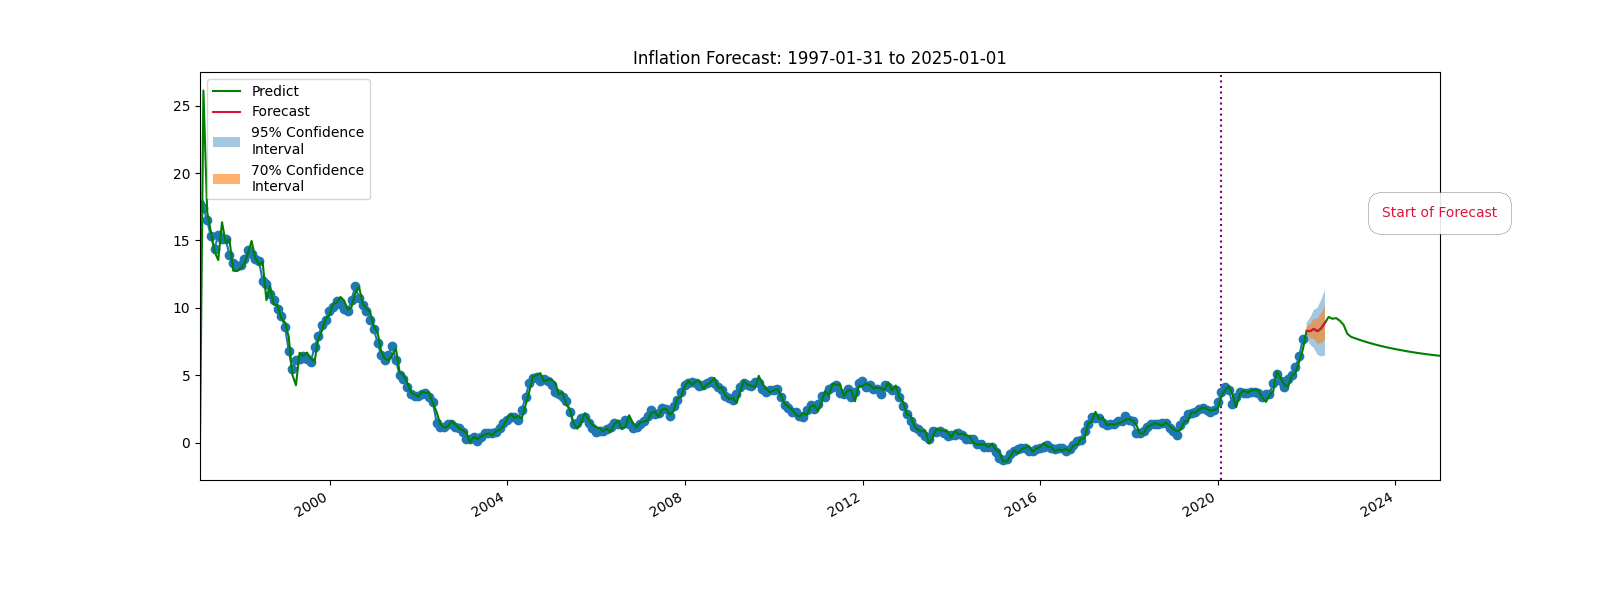
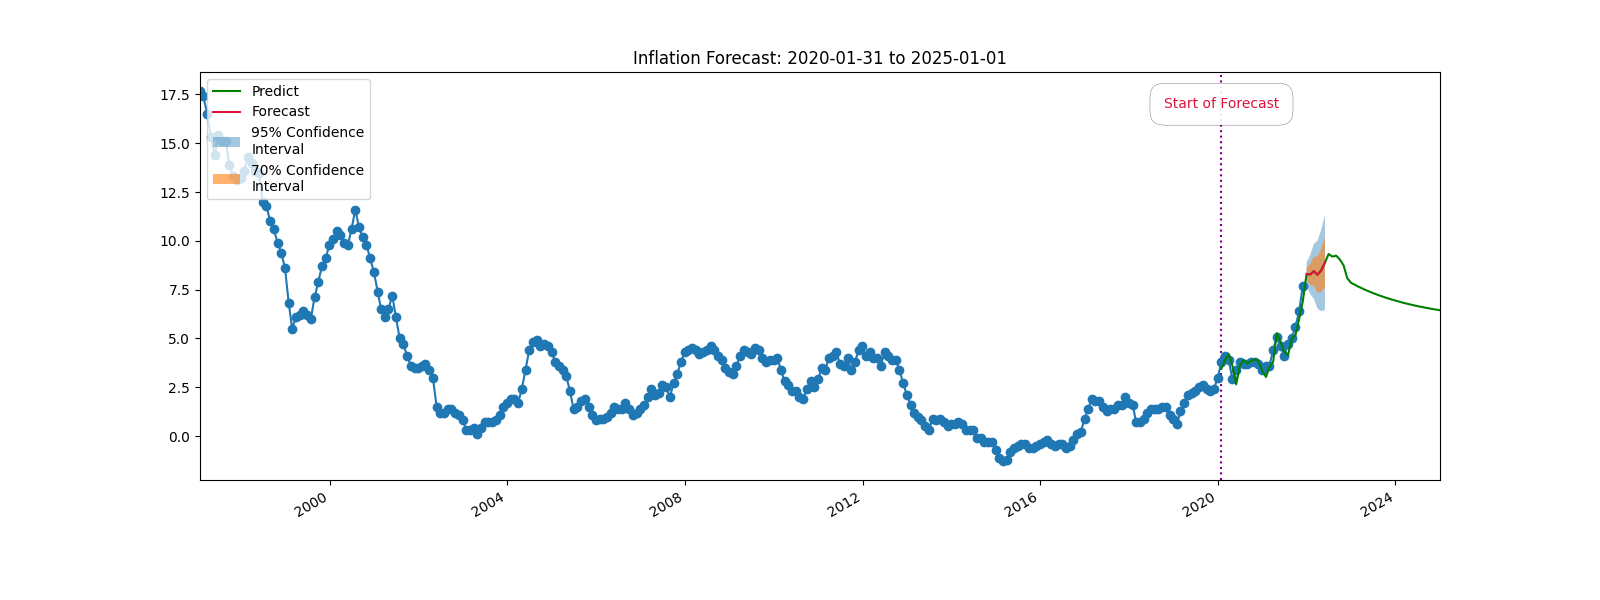
updated date for none

diff --git a/application.py b/application.py
@@ -126,7 +126,7 @@ def predict_datapoint():
             print(event_list)
         else:
             event_list = [(pd.to_datetime(start_date), 'Start of\nRussian Invasion', 'purple'), (pd.to_datetime(end_date), 'Start of\nForecast', 'crimson')]
-            yhat = model_fit.predict(start=start_date, end=end_date, typ='levels', dynamic=False).rename('Predict')
+            yhat = model_fit.predict(start=pd.to_datetime("2020-01-31"), end=end_date, typ='levels', dynamic=False).rename('Predict')
             
         conf_int_70 = model_fit.get_forecast(steps=6).summary_frame(alpha=0.3)
         conf_int_95 = model_fit.get_forecast(steps=6).summary_frame(alpha=0.05)
@@ -139,9 +139,11 @@ def predict_datapoint():
         plt.figure(figsize=(16, 6))
         if event== "None":
             plt.axvline(x=pd.to_datetime("2020-01-31"), color="purple", linestyle=':')
+            plt.text(x=pd.to_datetime("2020-01-31"), y=17, s="Start of Forecast", horizontalalignment='center', verticalalignment='center',
+                    color="crimson", bbox=dict(facecolor='white', alpha=0.9, boxstyle='round, pad=1', linewidth=0.2))
         else:
             plt.axvline(x=event_list[1][0], color="purple", linestyle=':')
-        plt.text(x=event_list[1][0], y=17, s="Start of Forecast", horizontalalignment='center', verticalalignment='center',
+            plt.text(x=event_list[1][0], y=17, s="Start of Forecast", horizontalalignment='center', verticalalignment='center',
                     color="crimson", bbox=dict(facecolor='white', alpha=0.9, boxstyle='round, pad=1', linewidth=0.2))
 
         df = pd.read_csv("/Users/damodargupta/Desktop/EPICS-PROJECT/date-wise-data.csv")
@@ -158,7 +160,7 @@ def predict_datapoint():
         elif event == "Covid 19 Pandemic":
             plt.title(f'Inflation Forecast: 2020-01-31 to {end_date}')
         else: 
-            plt.title(f'Inflation Forecast: {start_date} to {end_date}')
+            plt.title(f'Inflation Forecast: 2020-01-31 to {end_date}')
         plt.legend(loc='upper left')
         plt.savefig('/Users/damodargupta/Desktop/EPICS-PROJECT/plot.png', format='png')
 
